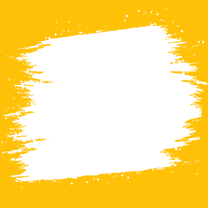
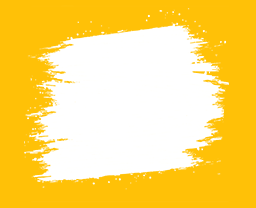
ssr

diff --git a/bootstrap/ssr/ssr.js b/bootstrap/ssr/ssr.js
@@ -351,7 +351,7 @@ createServer(
     title: (title) => `${title} - ${appName}`,
     resolve: (name) => resolvePageComponent(
       `./Pages/${name}.vue`,
-      /* @__PURE__ */ Object.assign({ "./Pages/Client/Event.vue": () => import("./assets/Event-9sG6fsCJ.js"), "./Pages/Client/Home.vue": () => import("./assets/Home-DujwPUQM.js"), "./Pages/Client/Login.vue": () => import("./assets/Login-DPX6tPvo.js"), "./Pages/Client/PastList.vue": () => import("./assets/PastList-DwiEzW50.js"), "./Pages/Dashboard/Dashboard.vue": () => import("./assets/Dashboard-B2vGOO-a.js"), "./Pages/Dashboard/Events/CreateEdit.vue": () => import("./assets/CreateEdit-B_ym3ID2.js"), "./Pages/Dashboard/Events/Index.vue": () => import("./assets/Index-BoXqjh84.js"), "./Pages/Dashboard/Subscribers/Index.vue": () => import("./assets/Index-BTjKx_vv.js") })
+      /* @__PURE__ */ Object.assign({ "./Pages/Client/Event.vue": () => import("./assets/Event-C4j4IphB.js"), "./Pages/Client/Home.vue": () => import("./assets/Home-CzkyBFOw.js"), "./Pages/Client/Login.vue": () => import("./assets/Login-DPX6tPvo.js"), "./Pages/Client/PastList.vue": () => import("./assets/PastList-D0XOAhOI.js"), "./Pages/Dashboard/Dashboard.vue": () => import("./assets/Dashboard-B2vGOO-a.js"), "./Pages/Dashboard/Events/CreateEdit.vue": () => import("./assets/CreateEdit-B_ym3ID2.js"), "./Pages/Dashboard/Events/Index.vue": () => import("./assets/Index-BoXqjh84.js"), "./Pages/Dashboard/Subscribers/Index.vue": () => import("./assets/Index-BTjKx_vv.js") })
     ),
     setup({ App, props, plugin }) {
       return createSSRApp({ render: () => h$1(App, props) }).use(plugin).use(k, {

diff --git a/resources/js/Pages/Client/Home.vue b/resources/js/Pages/Client/Home.vue
@@ -67,7 +67,7 @@ onMounted(() => {
 
 <style scoped lang="scss">
 .event-image {
-  background-size: 140%;
+  background-size: 102%;
 
   &:before {
     content: '';
@@ -77,7 +77,7 @@ onMounted(() => {
     height: 100%;
     width: 100%;
     background-repeat: no-repeat;
-    background-size: cover;
+    background-size: 89%;
     background-position: center;
   }
 }
